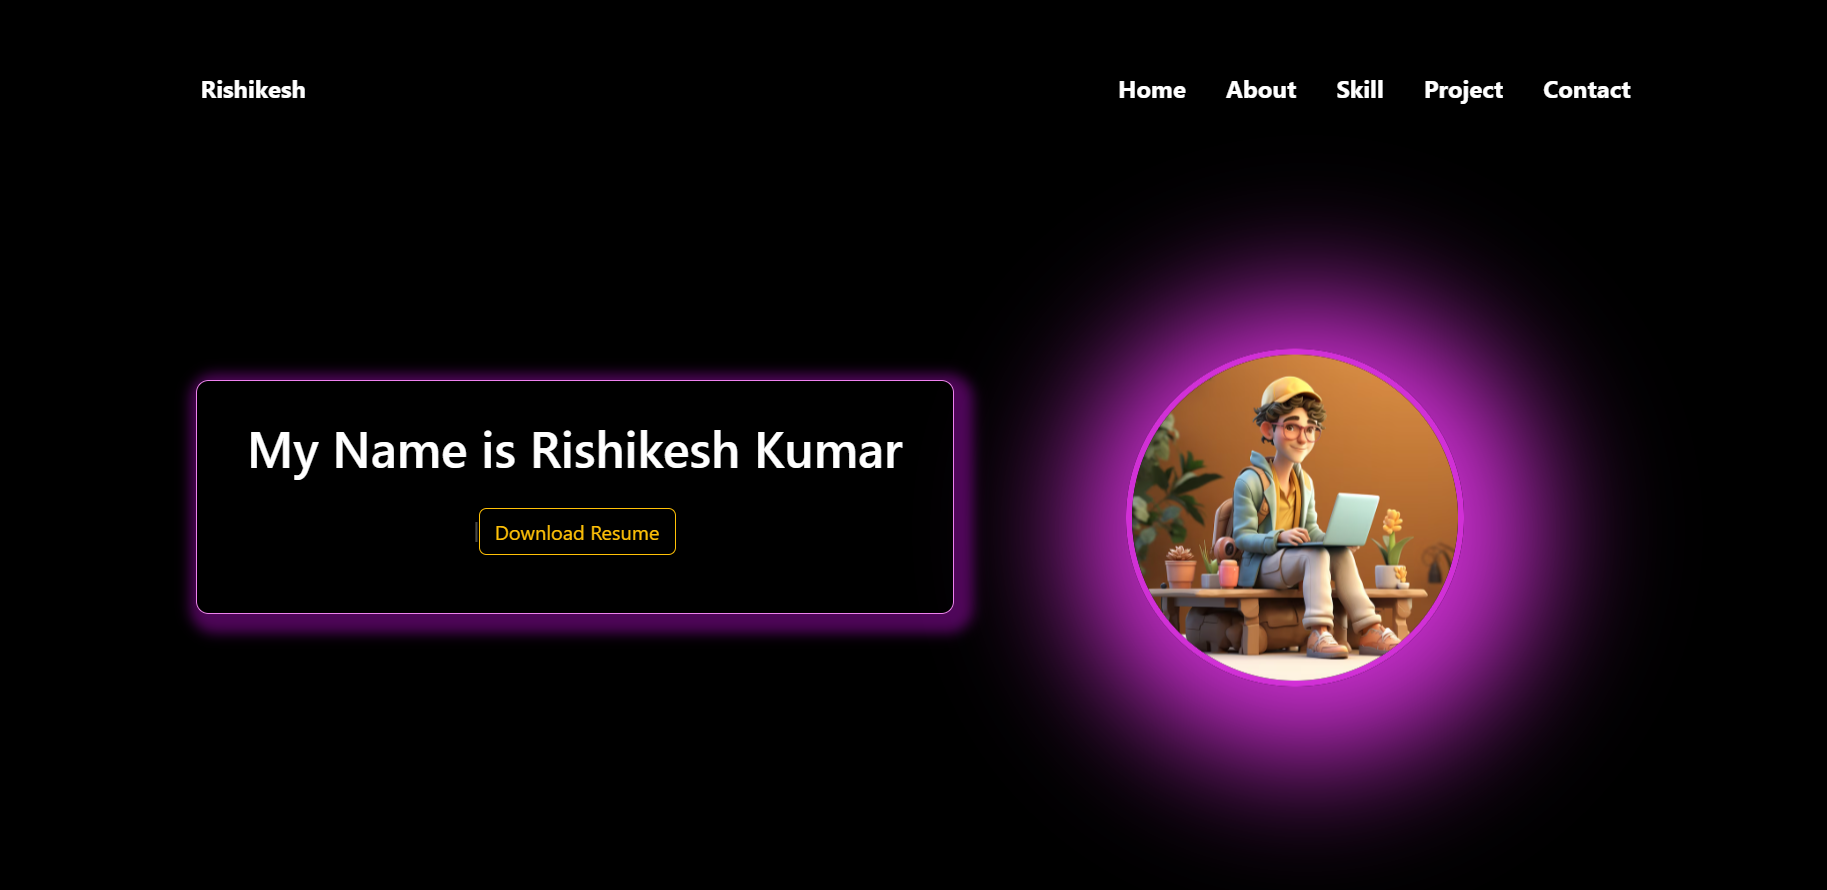
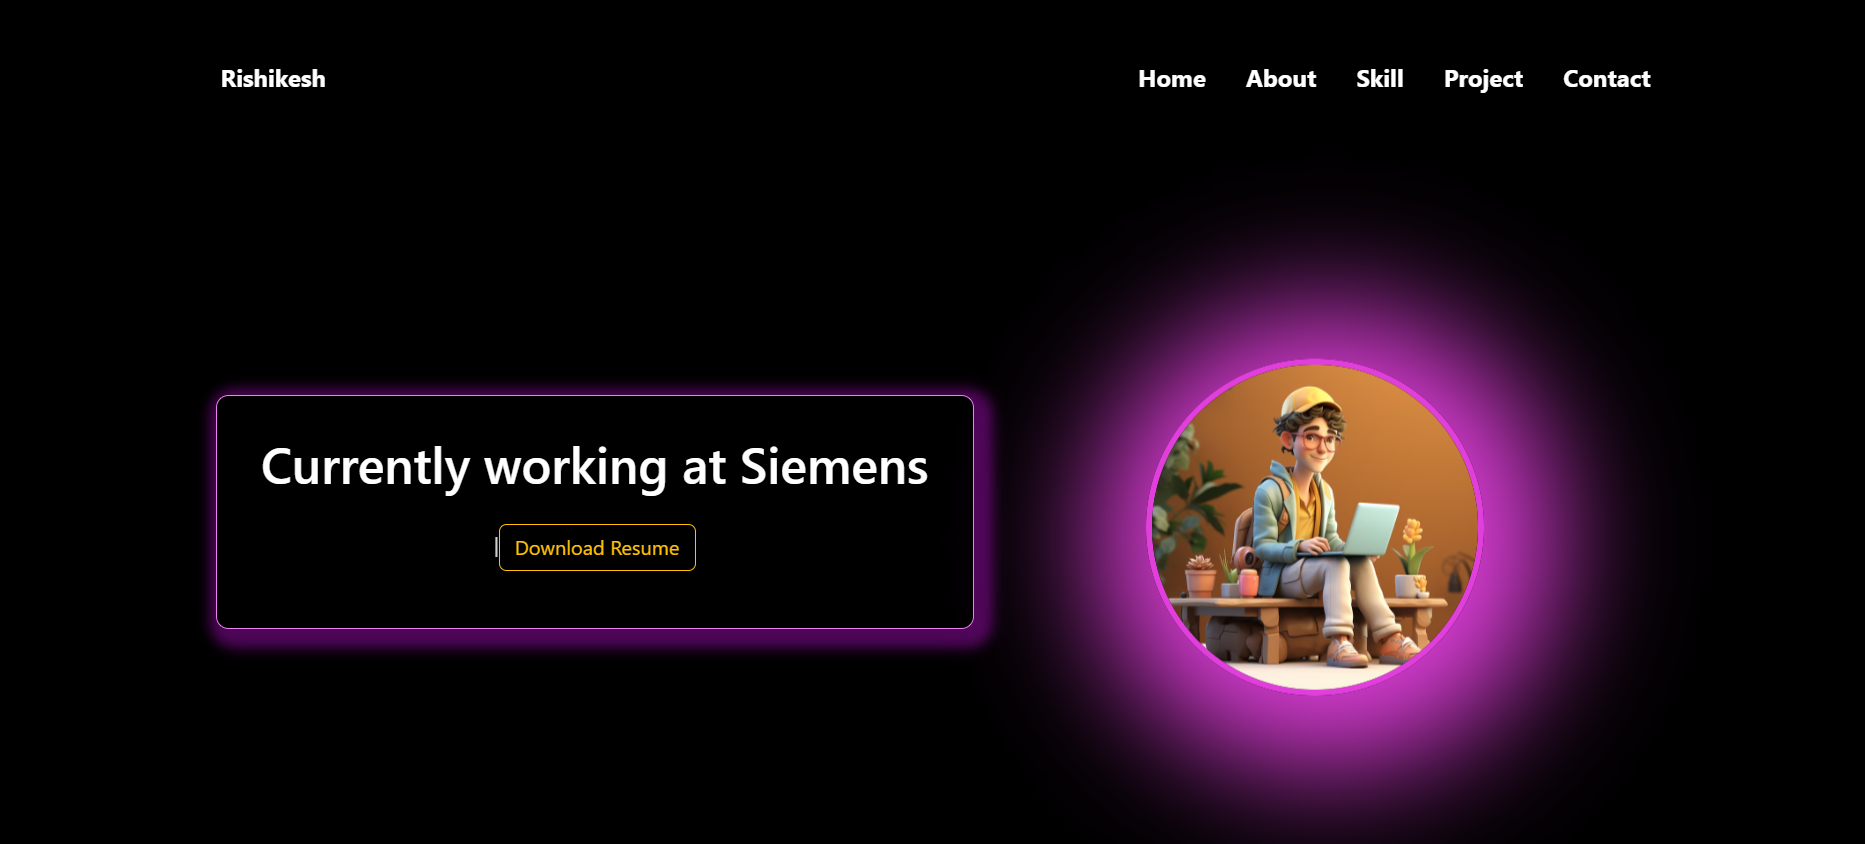
Refactor code structure for improved readability and maintainability

Changed region(s): [[0.0936, 0.3081, 0.8424, 0.9858], [0.5928, 0.0616, 0.9048, 0.1232], [0.0936, 0.0616, 0.1872, 0.1232]]

diff --git a/src/components/about.jsx b/src/components/about.jsx
@@ -10,10 +10,8 @@ const About = () => {
             <div className="cube" data-aos="fade-left"
       data-aos-duration="1000">
               <h3>About me</h3>
-              <p>Hey there! I'm Rishikesh Kumar, an engineering student with a passion
-                 for coding, web development, and exploring new technologies.
-                 From building efficient algorithms to creating responsive websites, 
-                 I love the challenge of solving problems and bringing ideas to life through code.
+              <p>Hey there! I'm Rishikesh Kumar, a B.Tech graduate in Computer Science and Engineering, currently working at Siemens. 
+                I’m passionate about coding, web development, and leveraging technology to solve real-world problems. I’m always eager to learn, explore new tools, and grow as a developer in this ever-evolving tech landscape.
                  </p>
             </div>
           </li>
@@ -21,11 +19,8 @@ const About = () => {
             <div className="cube" data-aos="fade-left"
       data-aos-duration="1000">
               <h3>Education</h3>
-              <p>I'm currently pursuing my B.E. degree in 
-                Computer Science from Siddaganga Institute
-                 of Technology,Tumkur.
-                 Before SIT, I completed my matriculation and 
-                 intermediate education at Creane Memorial High School,Gaya.</p>
+              <p>I have completed my B.Tech in Computer Science from Siddaganga Institute of Technology, Tumkur. Before that, 
+                I pursued my matriculation and intermediate education at Creane Memorial High School, Gaya.</p>
             </div>
           </li>
           <li className="Item">

diff --git a/src/components/home.jsx b/src/components/home.jsx
@@ -10,8 +10,9 @@ const Home = () => {
     const options = {
       strings: [
         "Welcome to my profile",
-        "My Name is Rishikesh Kumar",
-        "Pursuing B.E in Computer Science",
+        "Rishikesh Kumar",
+        "B.E in Computer Science",
+        "Currently working at Siemens",
         "Full stack developer",
         "Passionate programmer with a fervent dedication to coding.",
         "Footballer",

diff --git a/src/index.css b/src/index.css
@@ -187,7 +187,7 @@ a {
 
 .img {
   width: 25%;
-  border-radius: 20%;
+  border-radius: 7%;
 }
 
 .Item {
